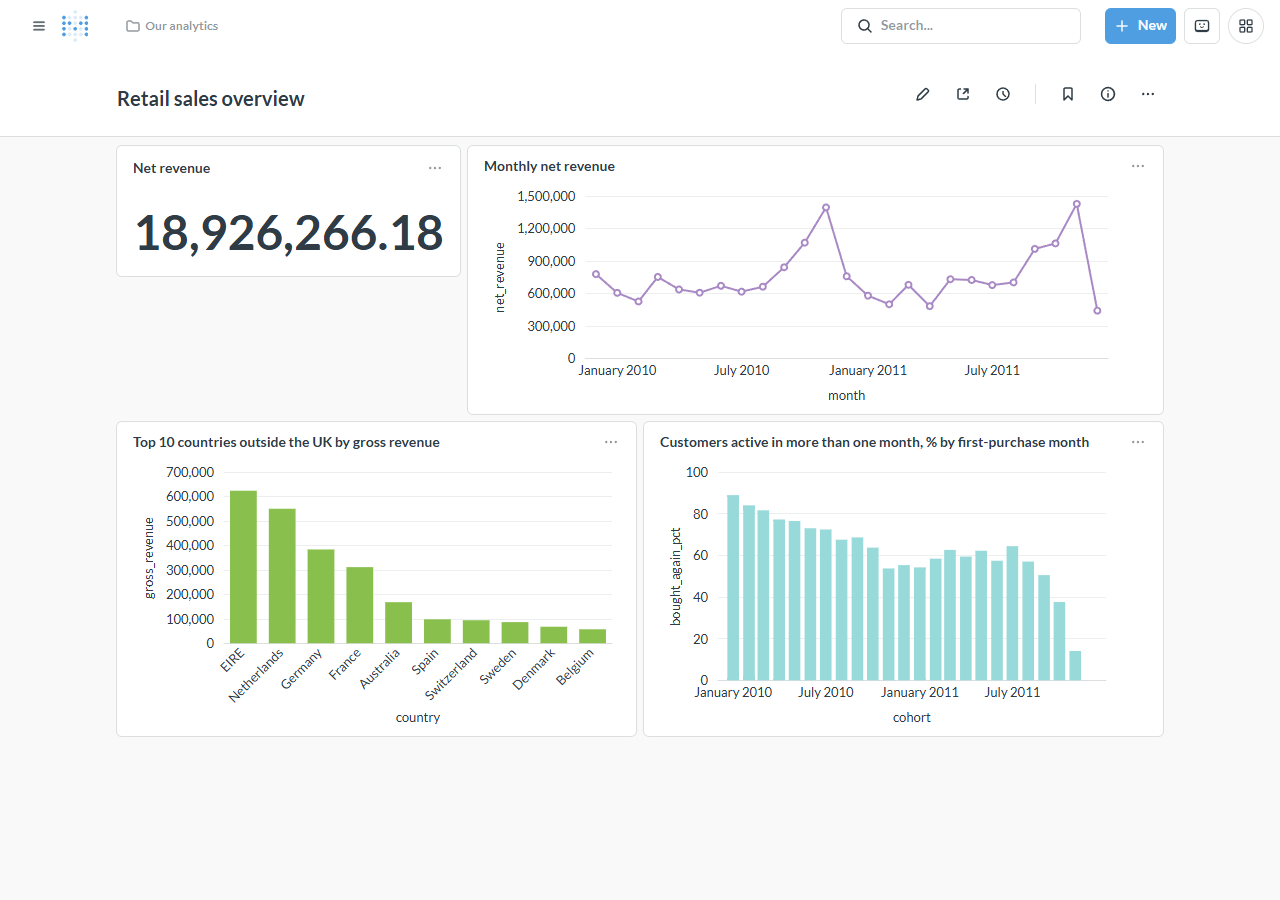
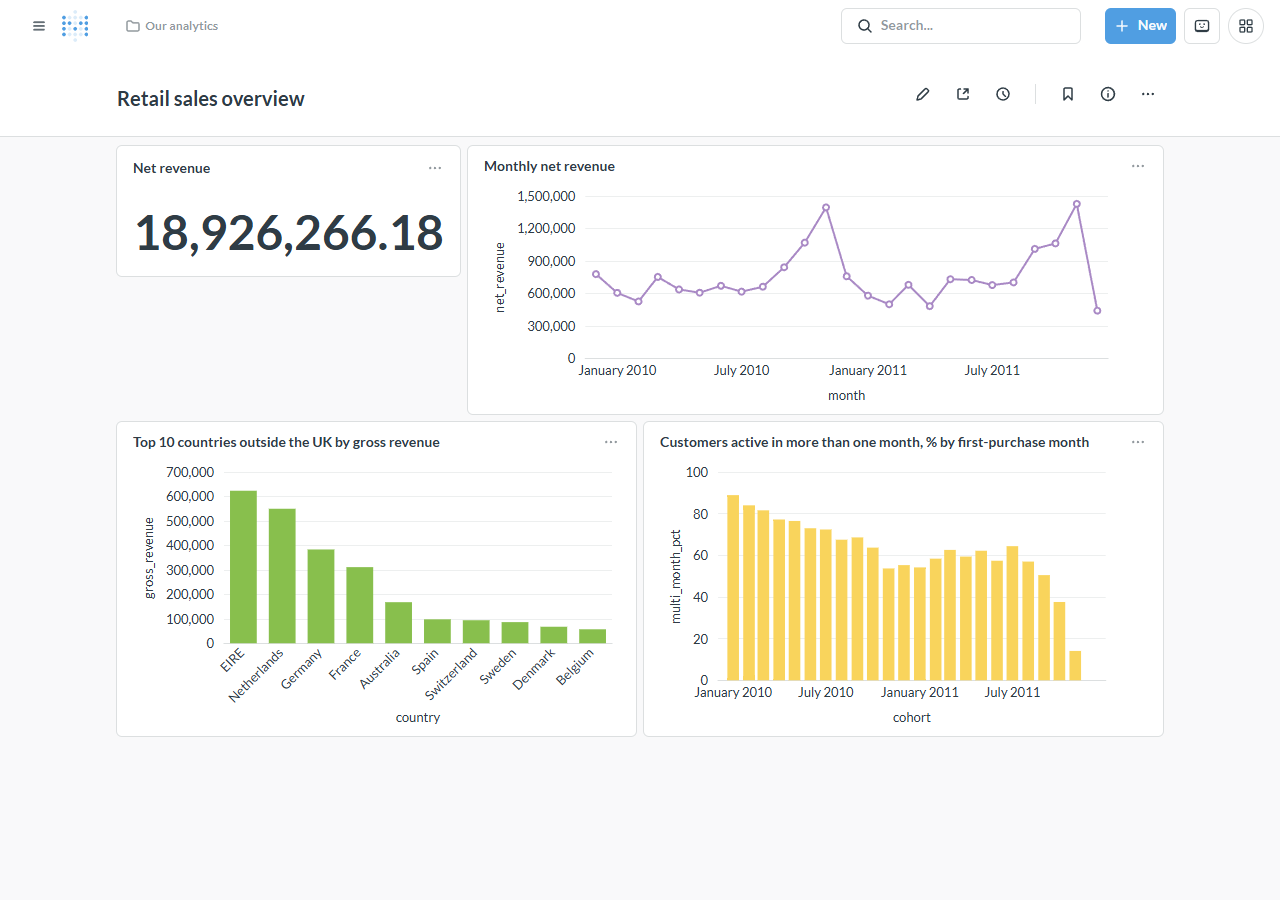
Metabase: name the cohort metric after what it counts; narrow the loopback DSN exception in check.py

Changed region(s): [[0.5625, 0.56, 0.8438, 0.7778], [0.5, 0.5911, 0.5312, 0.6844]]

diff --git a/bi/metabase/provision.py b/bi/metabase/provision.py
@@ -57,7 +57,7 @@ customers AS (
 )
 SELECT first_month AS cohort,
        count(*) AS customers,
-       round(100.0 * count(*) FILTER (WHERE active_months > 1) / count(*), 1) AS bought_again_pct
+       round(100.0 * count(*) FILTER (WHERE active_months > 1) / count(*), 1) AS multi_month_pct
 FROM customers
 WHERE first_month > (SELECT min(month_start) FROM dim_date)
 GROUP BY 1
@@ -74,7 +74,7 @@ QUESTIONS = [
      "size": (12, 7), "settings": {"graph.dimensions": ["country"], "graph.metrics": ["gross_revenue"]}},
     {"name": "Customers active in more than one month, % by first-purchase month",
      "display": "bar", "sql": REPEAT_BY_COHORT, "size": (12, 7),
-     "settings": {"graph.dimensions": ["cohort"], "graph.metrics": ["bought_again_pct"]}},
+     "settings": {"graph.dimensions": ["cohort"], "graph.metrics": ["multi_month_pct"]}},
 ]
 
 

diff --git a/check.py b/check.py
@@ -36,7 +36,7 @@ KNOWN_FALSE_POSITIVES: dict[str, str] = {
 CYRILLIC = re.compile(r"[\u0400-\u04ff]")
 HOME_PATH = re.compile(r"[a-z]:[\\/]users[\\/]", re.IGNORECASE)
 EMAIL = re.compile(r"[\w.+-]+@[\w-]+(?:\.[\w-]+)+")
-ALLOWED_EMAIL = re.compile(r"(@users\.noreply\.github\.com|@example\.com|@127\.0\.0\.1)$")
+ALLOWED_EMAIL = re.compile(r"(@users\.noreply\.github\.com|@example\.com|^retail@127\.0\.0\.1)$")
 # The privacy scanner reports in Russian: "CRITICAL n, IMPORTANT n".
 PRIVACY_TOTAL = re.compile(r"\u041a\u0420\u0418\u0422\u0418\u0427\u041d\u041e (\d+), \u0412\u0410\u0416\u041d\u041e (\d+)")
 

diff --git a/tests/test_metabase_provision.py b/tests/test_metabase_provision.py
@@ -119,4 +119,5 @@ def test_the_cohort_question_does_not_claim_more_than_the_sql_counts():
     """The SQL counts months with a purchase, so the title must not say 'bought again' (two orders in one month are one month)."""
     cohort = [q for q in provision.QUESTIONS if "cohort" in q["sql"].lower() or "first_month" in q["sql"]][0]
     assert "again" not in cohort["name"].lower()
+    assert not any("again" in m for m in cohort["settings"]["graph.metrics"]), "the axis label would still say 'again'"
     assert "month" in cohort["name"].lower()
